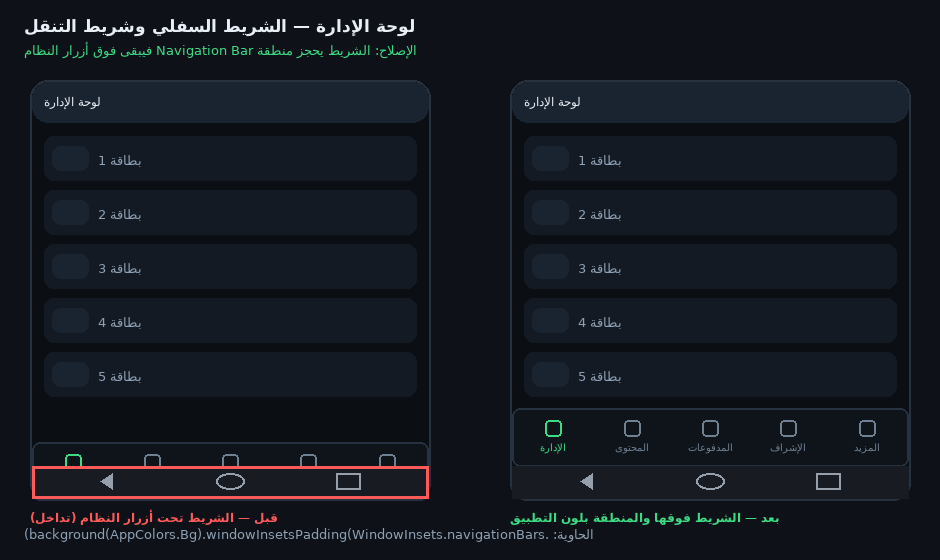
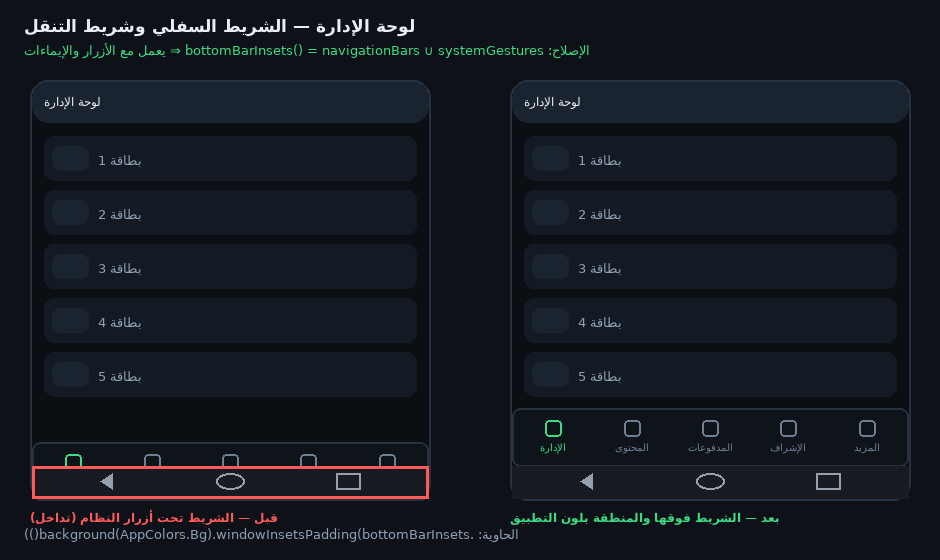
حجز منطقة الشريط السفلي تلقائياً لكل أوضاع التنقّل (أزرار + إيماءات)
طلب المالك: «خليها على جميع الخيارات تلقائي».

المشكلة الخفيّة: `WindowInsets.navigationBars` يحجز الشريط على أجهزة
**الأزرار الثلاثة**، أمّا على أجهزة **الإيماءات** فقد يكون 0 فتبقى المنطقة
غير محجوزة ويعود التداخل. والمساحة الفعليّة هناك هي
`WindowInsets.systemGestures` (شريط سحب «المنزل»).

الحل: مساعد واحد في BottomNav.kt

    fun bottomBarInsets(): WindowInsets = WindowInsets.navigationBars.union(
        WindowInsets.systemGestures.only(WindowInsetsSides.Bottom),
    )

اتحاد الاثنين (أكبر قيمة لكل جهة)، وبالجهة **السفلى فقط** من الإيماءات حتى لا
نضيف حاشية من حواف الرجوع يميناً ويساراً ⇒ الشريط فوق شريط الهاتف في كل جهاز
وبلا فراغ زائد.

استُخدم في: شريط لوحة الإدارة + الشريط السفلي الرئيسي (نفس المعيار).

الفاحص check_bottom_bar_insets.py صار يرفض أي شريط يحجز navigationBars وحده
(يبقى التداخل على أجهزة الإيماءات) ويتحقّق أن المساعد يغطّي النوعين.

كل الفواحص (19) ناجحة.

Changed region(s): [[0.2468, 0.0607, 0.617, 0.1214], [0.0309, 0.9411, 0.6479, 0.9714], [0.0309, 0.0607, 0.216, 0.1214]]

diff --git a/android/app/src/main/java/com/addonstation/mobile/ui/components/BottomNav.kt b/android/app/src/main/java/com/addonstation/mobile/ui/components/BottomNav.kt
@@ -14,7 +14,10 @@ import androidx.compose.foundation.layout.Spacer
 import androidx.compose.foundation.layout.WindowInsets
 import androidx.compose.foundation.layout.fillMaxWidth
 import androidx.compose.foundation.layout.height
+import androidx.compose.foundation.layout.WindowInsetsSides
 import androidx.compose.foundation.layout.navigationBars
+import androidx.compose.foundation.layout.only
+import androidx.compose.foundation.layout.systemGestures
 import androidx.compose.foundation.layout.offset
 import androidx.compose.foundation.layout.padding
 import androidx.compose.foundation.layout.size
@@ -39,6 +42,23 @@ import com.addonstation.mobile.ui.theme.AppColors
 import com.addonstation.mobile.ui.theme.AppText
 
 /**
+ * منطقة النظام التي يجب أن يحجزها **أي شريط سفلي** قبل أن يرسم نفسه:
+ *
+ *   • أزرار التنقّل الثلاثة (رجوع · المنزل · التطبيقات)
+ *       ⇒ `WindowInsets.navigationBars` هو الشريط نفسه (نحو 48dp).
+ *   • التنقّل بالإيماءات (شريط رفيع أسفل الشاشة)
+ *       ⇒ `navigationBars` قد يكون 0، والمنطقة الفعليّة هي
+ *         `WindowInsets.systemGestures` (شريط سحب «المنزل»).
+ *
+ * نأخذ **اتحاد** الاثنين (أكبر قيمة لكل جهة) — وبجهة **السفلى فقط** من
+ * الإيماءات حتى لا نضيف حاشية من حواف الرجوع يميناً ويساراً. النتيجة: الشريط
+ * يبقى فوق شريط الهاتف في **كل الأجهزة وكل أوضاع التنقّل** بلا فراغ زائد.
+ */
+fun bottomBarInsets(): WindowInsets = WindowInsets.navigationBars.union(
+    WindowInsets.systemGestures.only(WindowInsetsSides.Bottom),
+)
+
+/**
  * الشريط السفلي (5 عناصر) مع زر «المنزل» المرتفع في المنتصف:
  * 58×58dp، نصف قطر 19، تدرّج أخضر، إطار أخضر فاتح، توهّج، مرتفع 18dp فوق الشريط.
  */
@@ -53,7 +73,7 @@ fun BottomNavBar(
         modifier = Modifier
             .fillMaxWidth()
             .background(AppColors.Bg)
-            .windowInsetsPadding(WindowInsets.navigationBars),
+            .windowInsetsPadding(bottomBarInsets()),
     ) {
         Box(
             modifier = Modifier

diff --git a/android/app/src/main/java/com/addonstation/mobile/ui/admin/AdminScreens.kt b/android/app/src/main/java/com/addonstation/mobile/ui/admin/AdminScreens.kt
@@ -13,11 +13,10 @@ import androidx.compose.foundation.layout.Box
 import androidx.compose.foundation.layout.Column
 import androidx.compose.foundation.layout.Row
 import androidx.compose.foundation.layout.Spacer
-import androidx.compose.foundation.layout.WindowInsets
+import com.addonstation.mobile.ui.components.bottomBarInsets
 import androidx.compose.foundation.layout.fillMaxSize
 import androidx.compose.foundation.layout.fillMaxWidth
 import androidx.compose.foundation.layout.height
-import androidx.compose.foundation.layout.navigationBars
 import androidx.compose.foundation.layout.padding
 import androidx.compose.foundation.layout.size
 import androidx.compose.foundation.layout.imePadding
@@ -330,14 +329,15 @@ fun AdminPanelScreen(
         }
 
         // شريط اللوحة السفلي (5 عناصر)
-        // **حجز منطقة شريط التنقّل (Navigation Bar)**: التطبيق يرسم من الحافة إلى
-        // الحافة، فكان الشريط ينزل **تحت** أزرار النظام ويتداخل معها. الحاوية هنا
-        // تحجز المنطقة وتلوّنها بلون التطبيق، والشريط نفسه يبقى **فوقها**.
+        // **حجز منطقة شريط التنقّل**: التطبيق يرسم من الحافة إلى الحافة، فكان
+        // الشريط ينزل **تحت** أزرار النظام ويتداخل معها. الحاوية هنا تحجز
+        // المنطقة (`bottomBarInsets()` = أزرار ثلاثة **أو** إيماءات — تلقائياً
+        // حسب جهاز المستخدم) وتلوّنها بلون التطبيق، والشريط يبقى **فوقها**.
         Box(
             modifier = Modifier
                 .fillMaxWidth()
                 .background(AppColors.Bg)
-                .windowInsetsPadding(WindowInsets.navigationBars),
+                .windowInsetsPadding(bottomBarInsets()),
         ) {
             Row(
                 modifier = Modifier

diff --git a/tools/check_bottom_bar_insets.py b/tools/check_bottom_bar_insets.py
@@ -42,11 +42,31 @@ def main() -> int:
             block = text[max(0, m.start() - WINDOW) : m.end() + 200]
             if not BAR_BG_RE.search(block):
                 continue  # ليس شريطاً سفلياً ملوّناً بلون التطبيق
-            if "navigationBars" in block:
-                continue  # المنطقة محجوزة ✓
             line = text[: m.start()].count("\n") + 1
             rel = path.relative_to(ROOT)
+            if "bottomBarInsets()" in block:
+                continue  # المساعد يحجز المنطقة في كل أوضاع التنقّل ✓
+            if "navigationBars" in block and "systemGestures" in block:
+                continue  # يحجز الأزرار الثلاثة **والإيماءات** ✓
+            if "navigationBars" in block:
+                problems.append(
+                    f"{rel}:{line} — الشريط يحجز navigationBars فقط: "
+                    f"على أجهزة الإيماءات تكون المنطقة 0 فيبقى التداخل "
+                    f"(استخدم bottomBarInsets())"
+                )
+                continue
             problems.append(f"{rel}:{line} — شريط سفلي بلا حجز منطقة Navigation Bar")
+
+    # المساعد نفسه يجب أن يغطّي النوعين: أزرار ثلاثة + إيماءات
+    helper = SRC / "com/addonstation/mobile/ui/components/BottomNav.kt"
+    htext = helper.read_text(encoding="utf-8") if helper.exists() else ""
+    if "fun bottomBarInsets()" not in htext:
+        problems.append("BottomNav.kt — المساعد bottomBarInsets() مفقود")
+    else:
+        body = htext[htext.index("fun bottomBarInsets()") :][:400]
+        for needle in ("navigationBars", "systemGestures"):
+            if needle not in body:
+                problems.append(f"bottomBarInsets() لا يغطّي {needle}")
 
     print("الفحص | النتيجة")
     print("----------------------------------------------")
@@ -58,7 +78,7 @@ def main() -> int:
               "`.background(AppColors.Bg).windowInsetsPadding(WindowInsets.navigationBars)`")
         return 1
 
-    print("✅ كل الأشرطة السفلية تحجز منطقة شريط التنقّل")
+    print("✅ كل الأشرطة السفلية تحجز منطقة شريط التنقّل (أزرار + إيماءات)")
     print("\n🟢 لا شريط سفلي يتداخل مع Navigation Bar: كل شريط فوق أزرار النظام "
           "والمنطقة تحته ملوّنة بلون التطبيق.")
     return 0
